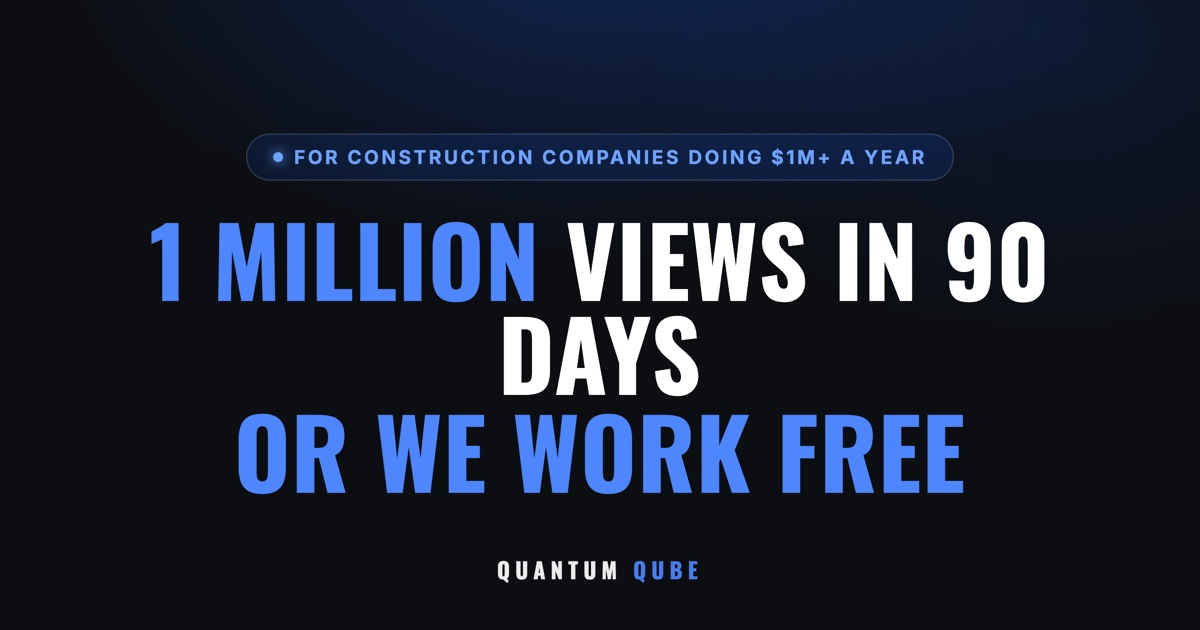
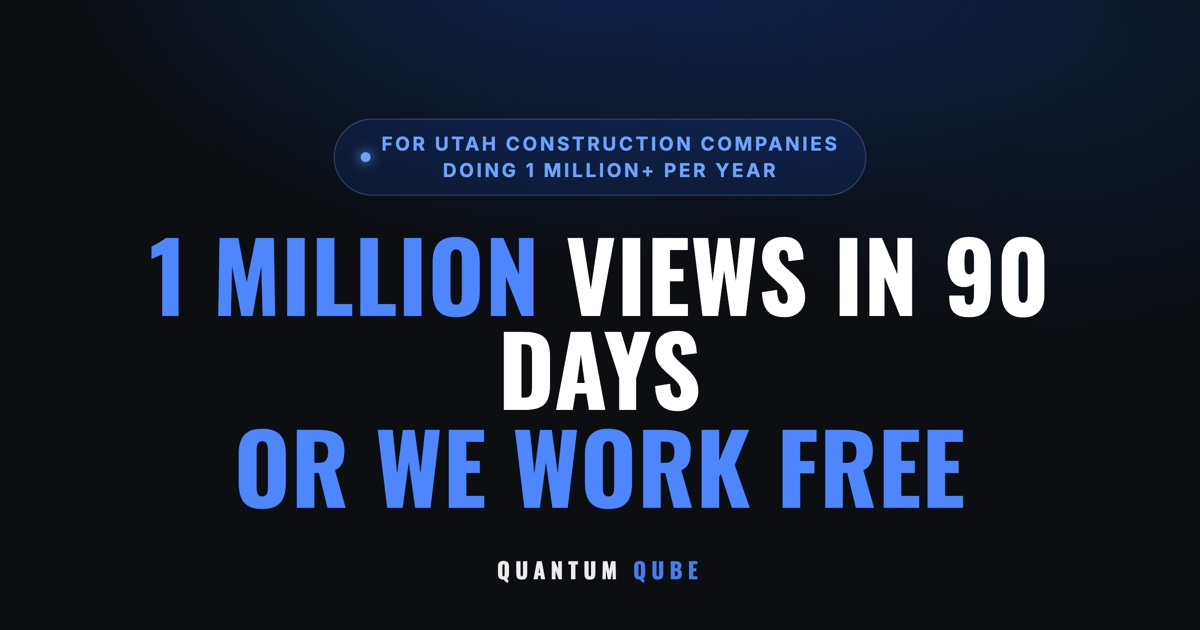
Eyebrow: For Utah construction companies doing 1 million+ per year (even 2-line split) + refreshed OG image

Changed region(s): [[0.185, 0.181, 0.8942, 0.8143], [0.1233, 0.3317, 0.1542, 0.4222], [0.1233, 0.4825, 0.1542, 0.5127]]

diff --git a/index.html b/index.html
@@ -79,7 +79,8 @@
     font-family:var(--font-sans);font-size:12.5px;font-weight:700;letter-spacing:.14em;text-transform:uppercase;
     color:var(--blue-label);border:1px solid var(--line-strong);border-radius:100px;padding:8px 18px;background:var(--blue-soft);
   }
-  .eyebrow .dot{width:7px;height:7px;border-radius:50%;background:var(--blue-label);box-shadow:0 0 10px var(--blue-label)}
+  .eyebrow .dot{width:7px;height:7px;border-radius:50%;background:var(--blue-label);box-shadow:0 0 10px var(--blue-label);flex:none}
+  .eb-txt{line-height:1.4;text-align:center}
   h1{
     font-family:var(--font-head);font-weight:700;text-transform:uppercase;
     font-size:clamp(34px,5.6vw,68px);line-height:1.03;letter-spacing:.01em;
@@ -210,7 +211,7 @@
 <header class="hero">
   <div class="wrap">
     <!-- ▼ audience pill (Hive-style) ▼ -->
-    <span class="eyebrow"><span class="dot"></span>For construction companies doing $1M+ a year</span>
+    <span class="eyebrow"><span class="dot"></span><span class="eb-txt">For Utah construction companies<br>doing 1 million+ per year</span></span>
     <!-- ▼ MAIN HEADLINE ▼ -->
     <h1><span class="hl nb">1 Million</span> Views in 90 Days<span class="h1-guar">or We Work Free Until You Do</span></h1>
     <p class="subhead">Most of our clients pass a million views in their first 30 days. All it takes from you is <b>one 3-hour shoot every 3 months</b>, and you don't even have to be the one on camera. We can film your foreman instead.</p>
